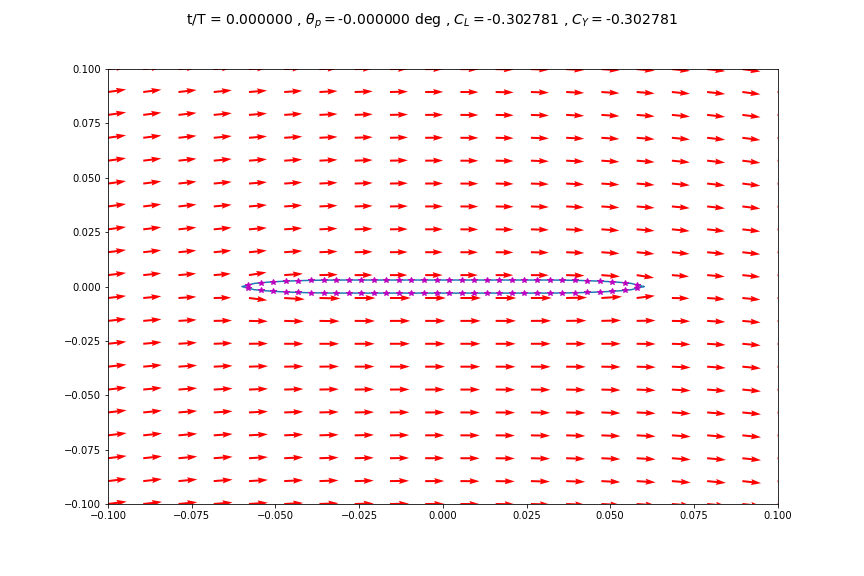
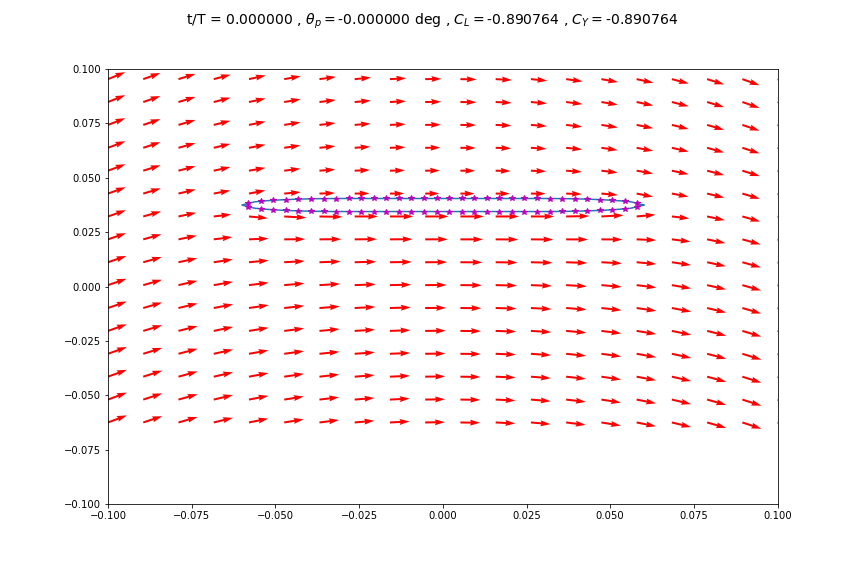
updating foil to move
updating the unsteady panel code to move the foil instead of the flow.  The influence coefficients are calculated once for everything then the end results are shifted and rotated at the end.

Changed region(s): [[0.125, 0.125, 0.875, 0.875], [0.7188, 0.0312, 0.7812, 0.0625], [0.5938, 0.0312, 0.6562, 0.0625]]

diff --git a/Unsteady Attached Flow plate_stationary foil.py b/Unsteady Attached Flow plate_stationary foil.py
@@ -11,7 +11,7 @@ import copy
 
 # some initial data
 pathName='E://Research//Scripts//Potential Flow//Panel Method//Git_Panel_Methods//frames'
-Uinf=8.8
+Uinf=3
 rho=1.204
 chord=.12
 thickness=.006
@@ -21,7 +21,7 @@ numPanels=64
 xp=np.zeros((numPanels+1,1))
 yp=np.zeros((numPanels+1,1))
 
-# panel coordinates for a finite thickness plate with rounded leading edges
+# panel coordinates in terms of global x and y
 xStep=chord/(numPanels/2)
 xp[0]=chord/2
 yp[0]=0
@@ -51,8 +51,13 @@ for i in range(numPanels):
     xc[i]=(xp[i]+xp[i+1])/2
     yc[i]=(yp[i]+yp[i+1])/2
 
+xpOld=copy.copy(xp)
+ypOld=copy.copy(yp)
+xcOld=copy.copy(xc)
+ycOld=copy.copy(yc)
+
 # time frames, panel positions, collocation positions, induced freestream velocities
-numFrames=24
+numFrames=10
 tEnd=.5
 tInterval=np.linspace(0,tEnd,numFrames)
 f=2
@@ -71,7 +76,7 @@ yUpper=.1
 X,Y=np.meshgrid(np.linspace(xLeft,xRight,numPoints),np.linspace(yLower,yUpper,numPoints))
 
 # things that don't change
-# thetas for each panel
+# thetas for each panel relative to the foil
 theta=np.zeros((numPanels,1))
 for i in range(numPanels):
     theta[i]=np.arctan2(yp[i+1]-yp[i],xp[i+1]-xp[i])
@@ -94,13 +99,13 @@ np.fill_diagonal(wps,.5)
 upv=copy.copy(wps)
 wpv=-ups
 
-#   calculate normal tangential influence coefficients
+#   calculate normal tangential influence coefficients 
 nSource=-np.sin(theta-np.transpose(theta))*(ups)+np.cos(theta-np.transpose(theta))*(wps)
 tSource=np.cos(theta-np.transpose(theta))*(ups)+np.sin(theta-np.transpose(theta))*(wps)
 nVortex=-np.sin(theta-np.transpose(theta))*(upv)+np.cos(theta-np.transpose(theta))*(wpv)
 tVortex=np.cos(theta-np.transpose(theta))*(upv)+np.sin(theta-np.transpose(theta))*(wpv)
 
-#   matrix A
+#   matrix A (everything in normal tangential coordinates)
 A=np.zeros((numPanels+1,numPanels+1))
 A[:numPanels,:numPanels]=nSource
 A[:numPanels,-1]=np.sum(nVortex,axis=1)
@@ -112,8 +117,8 @@ si=np.zeros((numPanels,1))
 perimeter=0
 for i in range(numPanels):
         si[i]=((xp[i+1]-xp[i])**2+(yp[i+1]-yp[i])**2)**(1/2)
-        perimeter=perimeter+si[i]
- 
+        perimeter=perimeter+si[i] 
+
 #   calculate velocities in the flow field
 upsField=np.zeros((numPoints*numPoints,numPanels))
 wpsField=np.zeros((numPoints*numPoints,numPanels))
@@ -132,7 +137,7 @@ for i in range(numPoints): # each row of grid points
 upvField=copy.copy(wpsField)
 wpvField=-upsField
 
-#   transform influence coefficients to cartesian
+#   transform influence coefficients to foil frame
 ugsField=upsField*np.cos(np.transpose(theta))-wpsField*np.sin(np.transpose(theta))
 wgsField=upsField*np.sin(np.transpose(theta))+wpsField*np.cos(np.transpose(theta))
 ugvField=upvField*np.cos(np.transpose(theta))-wpvField*np.sin(np.transpose(theta))
@@ -147,69 +152,78 @@ AFieldy[:,:numPanels]=wgsField
 AFieldy[:,-1]=np.sum(wgvField,axis=1)
 
 xVelStream=np.zeros((numPoints,numPoints))
-yVelStream=np.zeros((numPoints,numPoints))  
-      
+yVelStream=np.zeros((numPoints,numPoints)) 
+
 # data storage
 tangVelSto=np.zeros((numPanels,numFrames))
 ClKuttaSto=np.zeros((numFrames,1))
 CYKuttaSto=np.zeros((numFrames,1))
-ClBernSto=np.zeros((numFrames,1))
 CYBernSto=np.zeros((numFrames,1))
 xSto=np.zeros((numPanels+1,numFrames))
 momSto=np.zeros((numFrames,1))
-CPSto=np.zeros((numPanels//2,numFrames))
-AoASto=np.zeros((numFrames,1))
 
 # panel method for each snap shot in time interval
-for t in range(numFrames):     
-    # induced velocity and AoA at collocation point
-    AoA=theta_t[t]-np.arctan2(h_t_dot[t]-xc*theta_t_dot[t]*np.cos(theta_t[t]),Uinf+theta_t_dot[t]*xc*np.sin(theta_t[t]))#!!!!!!!!!!!!!!
-#    AoA=theta_t[t]+np.arctan2((Uinf+theta_t_dot[t]*xc*np.sin(theta_t[t]))*np.sin(theta_t[t])+(-h_t_dot[t]+theta_t_dot[t]*xc*np.cos(theta_t[t]))*np.cos(theta_t[t]),\
-#               (Uinf+theta_t_dot[t]*xc*np.sin(theta_t[t]))*np.cos(theta_t[t])+(-h_t_dot[t]+theta_t_dot[t]*xc*np.cos(theta_t[t]))*-np.sin(theta_t[t]))
-    normU=Uinf*np.sin(AoA-theta)
-    tangU=Uinf*np.cos(AoA-theta)
+for t in range(numFrames):
+    # freestream in terms of normal tangential coordinates
+    normU=(-np.sin(theta)*np.cos(theta_t[t])+np.cos(theta)*np.sin(theta_t[t]))*Uinf#!!!!!!!!!!!!
+    tangU=(np.cos(theta)*np.cos(theta_t[t])+np.sin(theta_t[t])*np.sin(theta))*Uinf
+    
+    #foil contribution
+    foilVelNorm=-h_t_dot[t]*np.sin(theta_t[t])*np.sin(theta)+(-h_t_dot[t]*np.cos(theta_t[t])-theta_t_dot[t]*-xc)*np.cos(theta)
+    foilVelTang=h_t_dot[t]*np.sin(theta_t[t])*np.cos(theta)+(-h_t_dot[t]*np.cos(theta_t[t])-theta_t_dot[t]*-xc)*np.sin(theta)
     
     # vector b
     b=np.zeros((numPanels+1,1))
-    b[:-1]=-normU
-    b[-1]=-tangU[0]-tangU[-1]
+    b[:-1]=-(normU+foilVelNorm)
+    b[-1]=(-tangU[0]-tangU[-1])+(-foilVelTang[0]-foilVelTang[-1])
     
     # solve exactly
     x=np.linalg.solve(A,b)
     
     #confirm that velocities on airfoil are tangential
-    normVelFoil=np.dot(nSource,x[:-1])+np.dot(nVortex,x[-1]*np.ones((numPanels,1)))+normU
-    tangVelFoil=np.dot(tSource,x[:-1])+np.dot(tVortex,x[-1]*np.ones((numPanels,1)))+tangU
+    normVelFoil=np.dot(nSource,x[:-1])+np.dot(nVortex,x[-1]*np.ones((numPanels,1)))+(normU+foilVelNorm)
+    tangVelFoil=np.dot(tSource,x[:-1])+np.dot(tVortex,x[-1]*np.ones((numPanels,1)))+(tangU+foilVelTang)
     
     # Lift from kutta
     gamma=x[-1]*perimeter
     Cl_kutta=2*gamma/(Uinf*chord)
-    CY_kutta=Cl_kutta*np.cos(np.average(AoA))
+    CY_kutta=Cl_kutta*np.cos(-np.arctan2(h_t_dot[t],Uinf))#!!!!!!!!!!!!!!!!!!!!
     
     # lift from bernoulli
     dP=np.reshape(1/2*rho*(Uinf**2-tangVelFoil**2),(numPanels,1))
-    yForceDist=-dP*si*np.cos(theta-AoA)
-    lift_bern=np.sum(yForceDist)
-    Cl_bern=2*lift_bern/(rho*Uinf**2*chord)
-    CY_bern=Cl_bern*np.cos(np.average(AoA))
+    forceDist=-dP*si#!!!!!!!!!!!!!!!!!!!
+    Fy_bern=np.sum(forceDist*(np.sin(theta_t[t])*np.sin(theta)+np.cos(theta_t[t])*np.cos(theta)))
+    CY_bern=2*Fy_bern/(rho*Uinf**2*chord)
     
     # moment from bernoulli
-    momentBern=np.sum(yForceDist*np.cos(AoA)*-xc)
+    momentBern=np.sum(forceDist*np.cos(theta)*-xc)#!!!!!!!!!!!!!!!!
     
-    # coefficient of pressure over chord, 1st column collocation point, 2nd column Cp
-    CP=np.zeros((numPanels//2,2))
-    CP[:,0]=np.reshape(xc[:numPanels//2],(numPanels//2,))
-    CP[:,1]=np.reshape((dP[:numPanels//2]-dP[numPanels//2-1::-1])/(1/2*rho*Uinf**2),(numPanels//2,))
+    # coefficient of pressure over chord
+ 
     
-    # adjust freestream velocity in domain to account for heaving and pitching
-    xModU=(Uinf+theta_t_dot[t]*X[0,:]*np.sin(theta_t[t]))*np.cos(theta_t[t])+(-h_t_dot[t]+theta_t_dot[t]*X[0,:]*np.cos(theta_t[t]))*-np.sin(theta_t[t])
-    yModU=(Uinf+theta_t_dot[t]*X[0,:]*np.sin(theta_t[t]))*np.sin(theta_t[t])+(-h_t_dot[t]+theta_t_dot[t]*X[0,:]*np.cos(theta_t[t]))*np.cos(theta_t[t])
+    # adjust freestream velocity in domain to account for heaving and pitching (foil coordinate system)
+    xModU=Uinf*np.cos(theta_t[t])+h_t_dot[t]*np.sin(theta_t[t])#!!!!!!!!!!!!!!!!!
+    yModU=Uinf*np.sin(theta_t[t])+(-h_t_dot[t]*np.cos(theta_t[t])+theta_t_dot[t]*X[0,:])
     
-    # calculate velocity stream vectors 
+    # calculate velocity stream vectors in foil coordinate system
     for i in range(numPoints): # each row of points
         for j in range(numPoints): # each point in row
-            xVelStream[i,j]=np.dot(AFieldx[i*numPoints+j,:],x)+xModU[j]
+            xVelStream[i,j]=np.dot(AFieldx[i*numPoints+j,:],x)+xModU#!!!!!!!!!!!!
             yVelStream[i,j]=np.dot(AFieldy[i*numPoints+j,:],x)+yModU[j]
+    
+    # rotate velocity vectors to Global X Y
+    XVelStream=xVelStream*np.cos(theta_t[t])+yVelStream*np.sin(theta_t[t])
+    YVelStream=-xVelStream*np.sin(theta_t[t])+yVelStream*np.cos(theta_t[t])
+    
+    # rotate and shift position for each velocity vector
+    newX=X+theta_t[t]*-X*np.sin(theta_t[t])#!!!!!!!!!!!!!!!!
+    newY=Y+h_t[t]+theta_t[t]*-X*np.cos(theta_t[t])
+    
+    # update panel coordinates and collocation points
+    xp=xpOld+theta_t[t]*-xpOld*np.sin(theta_t[t])
+    xc=xcOld+theta_t[t]*-xcOld*np.sin(theta_t[t])
+    yp=ypOld+h_t[t]+theta_t[t]*-xpOld*np.cos(theta_t[t])
+    yc=ycOld+h_t[t]+theta_t[t]*-xcOld*np.cos(theta_t[t])    
     
     # plot velocity vectors
     title='t/T = ' + '{:3f}'.format(tInterval[t]/tEnd)+ r' , $\theta_p = $' + '{:3f}'.format(theta_t[t]/np.pi*180) +' deg , ' + r'$C_L = $' + '{:3f}'.format(Cl_kutta[0]) +\
@@ -220,7 +234,7 @@ for t in range(numFrames):
     plt.ylim(yLower,yUpper)
     plt.xlim(xLeft,xRight)
     plt.plot(xp,yp)
-    plt.quiver(X,Y,xVelStream,yVelStream,color='r')
+    plt.quiver(newX,newY,XVelStream,YVelStream,color='r')
     plt.plot(xc,yc,'*',color='m')
     plt.savefig(pathName + '//frame' + str(t))
     plt.close()
@@ -229,12 +243,9 @@ for t in range(numFrames):
     tangVelSto[:,t]=tangVelFoil[:,0]
     ClKuttaSto[t]=Cl_kutta
     CYKuttaSto[t]=CY_kutta
-    ClBernSto[t]=Cl_bern
     CYBernSto[t]=CY_bern
     xSto[:,t]=x[:,0]
     momSto[t]=momentBern
-    CPSto[:,t]=CP[:,1]
-    AoASto[t]=np.average(AoA)
 
 # plot force in heaving direction
 fig2=plt.figure(figsize=(12,8))
@@ -244,4 +255,16 @@ plt.plot(tInterval/tInterval[-1],h_t/h0)
 plt.legend([r'$C_Y$',r'$h/h_0$'],loc='lower right',fontsize=14)
 plt.xlabel('t/T',fontsize=18)
 plt.ylabel(r'$C_Y$',fontsize=18)
+plt.title('From Kutta')
 #plt.savefig('quasi_steady.png')
+
+fig3=plt.figure(figsize=(12,8))
+fig3.add_subplot(111)
+plt.plot(tInterval/tInterval[-1],CYBernSto)
+plt.plot(tInterval/tInterval[-1],h_t/h0)
+plt.legend([r'$C_Y$',r'$h/h_0$'],loc='lower right',fontsize=14)
+plt.xlabel('t/T',fontsize=18)
+plt.ylabel(r'$C_Y$',fontsize=18)
+plt.title('From Bernoulli')
+#plt.savefig('quasi_steady.png')
+
